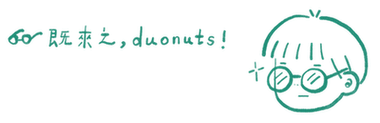
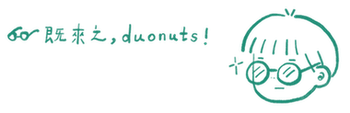
rwd-slogan

diff --git a/rwd.css b/rwd.css
@@ -446,17 +446,17 @@
        padding: 132px 20px 30px;
    }
    .slogan .slo-index{
-       width: 380px;
-       height: 123px;
+       width: 350px;
+       height: 113px;
        background-image: url(./img/rwd/header-g575.png);
+       background-size: 350px 113px;
        position: relative;
-       max-width: 100%;
    }/*img*/
    
    .slogan .slo-index h5{
        position: absolute;
-       top: 115px;
-       left: 58px;
+       top: 105px;
+       left: 46px;
        letter-spacing: 0.2em;
        width: 220px;
        text-align: center;
@@ -510,7 +510,7 @@
    }
    .abo .sec-c .text-ab img{
        margin-left: 80px;
-   }
+   }/*mrbtn*/
 
    /*index-sec 熱門商品*/
    .hot .hot-crs .item:nth-child(3),.hot .hot-crs .item:nth-child(4){
